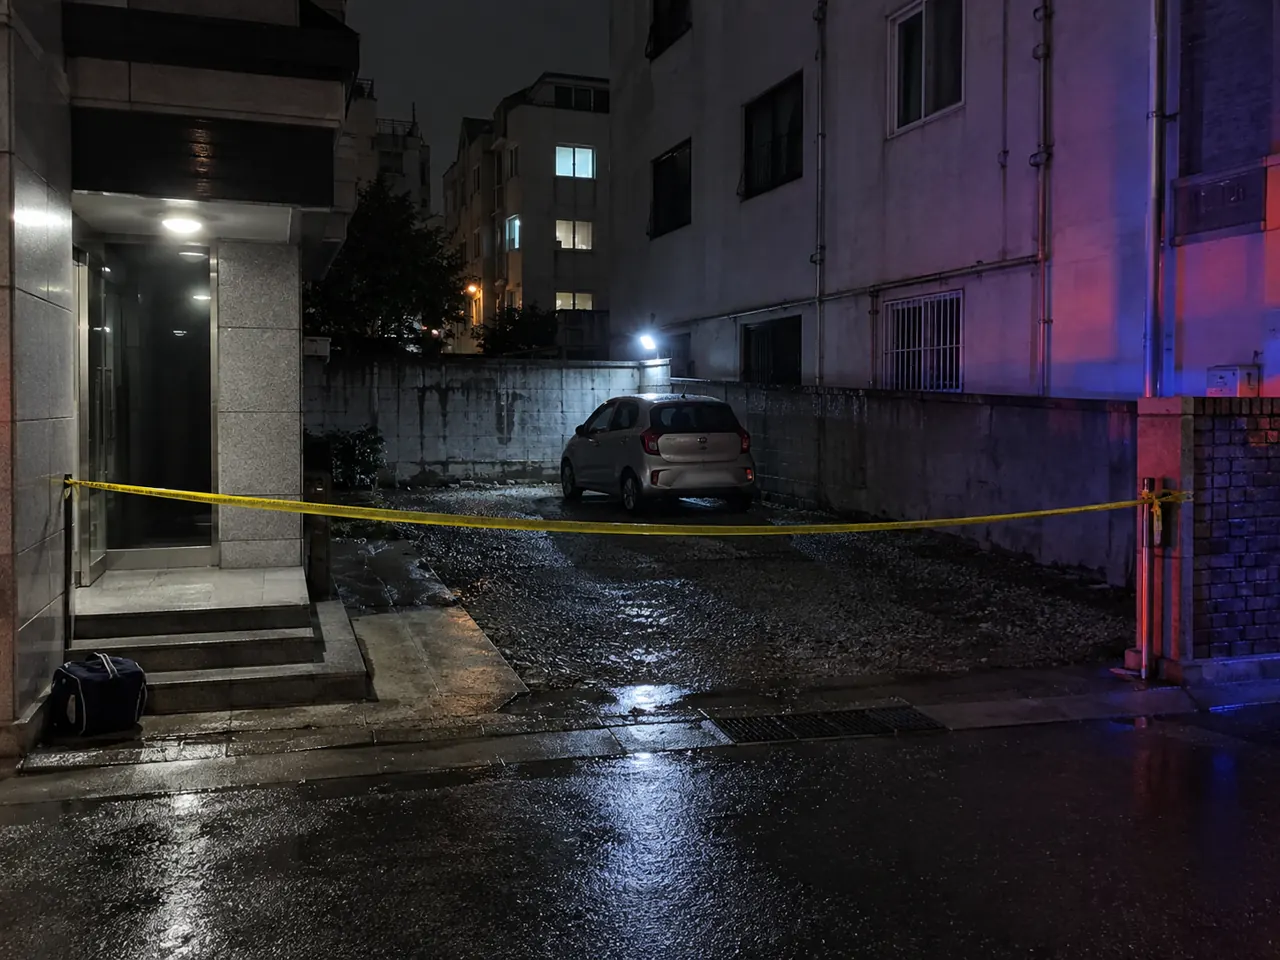
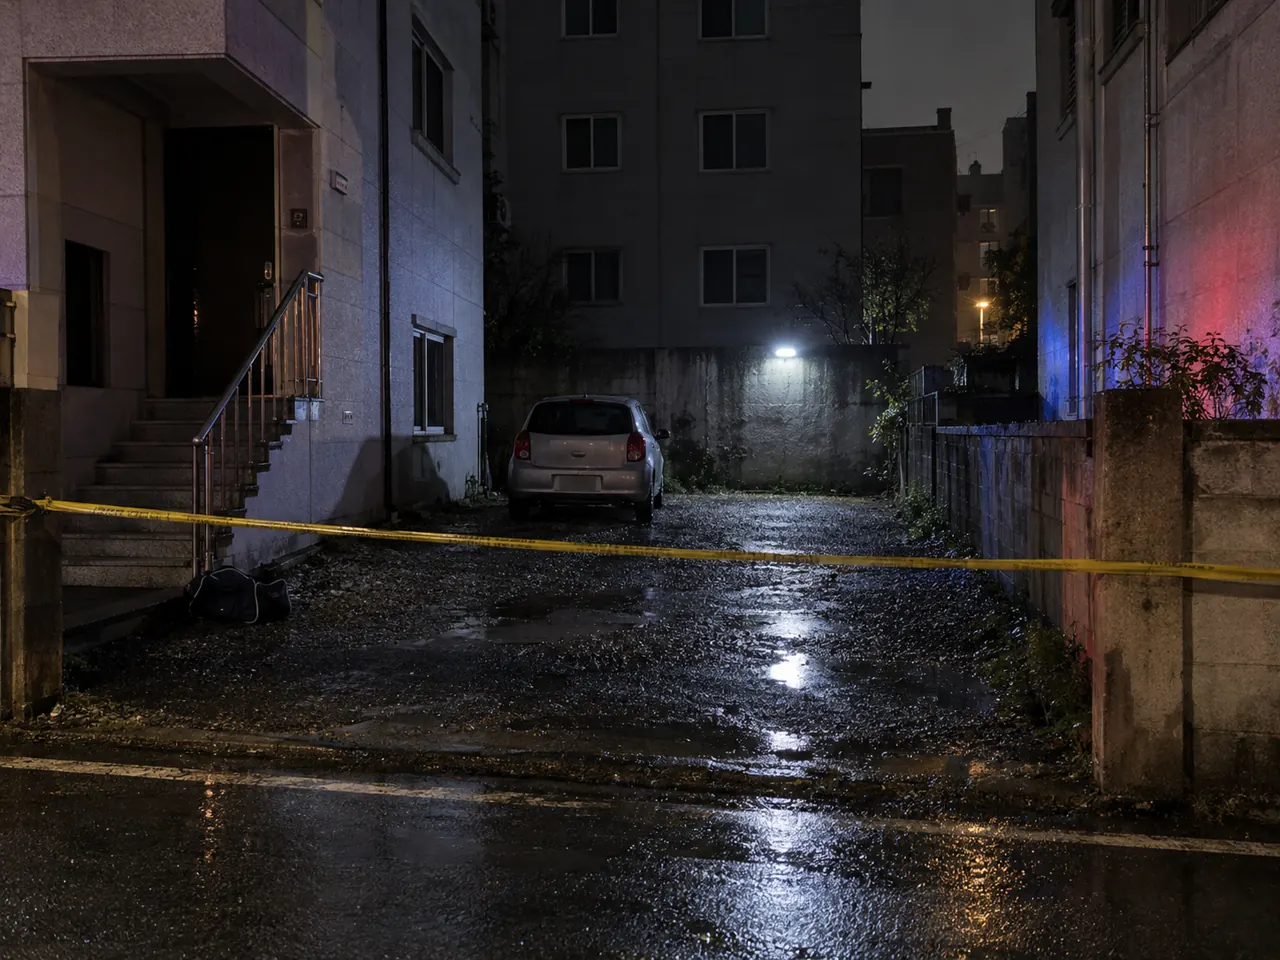
CASE 15 cover: the bag now lies tipped over, as the scene text says; car badges painted out

diff --git a/img/manifest.js b/img/manifest.js
@@ -242,8 +242,8 @@ window.MG.images = {
   "c14/stakeout": "img/c14/stakeout.webp?v=bc058926",
   "c15/carwash": "img/c15/carwash.webp?v=a93b81a0",
   "c15/cctv_lane": "img/c15/cctv_lane.webp?v=0694e65a",
-  "c15/cover": "img/c15/cover.webp?v=00ccbea4",
-  "c15/cover_s": "img/c15/cover_s.webp?v=ec274d17",
+  "c15/cover": "img/c15/cover.webp?v=dffd80fe",
+  "c15/cover_s": "img/c15/cover_s.webp?v=3ed9b6d5",
   "c15/elev_cam": "img/c15/elev_cam.webp?v=b72ff04e",
   "c15/futsal": "img/c15/futsal.webp?v=8f245fe7",
   "c15/helmet_cam": "img/c15/helmet_cam.webp?v=d547b8e2",
